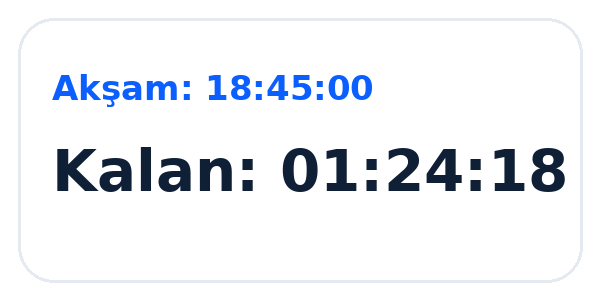
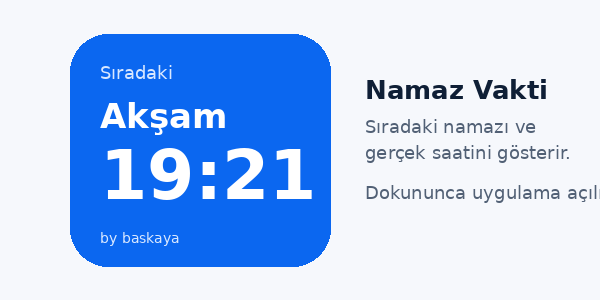
widget update

diff --git a/plugins/withMinuteWidgetUpdates.js b/plugins/withMinuteWidgetUpdates.js
@@ -1,199 +1,3 @@
-const { withAndroidManifest, withDangerousMod } = require('expo/config-plugins');
-const fs = require('fs');
-const path = require('path');
-
-module.exports = function withMinuteWidgetUpdates(config) {
-  const appPackage = config.android && config.android.package;
-  if (!appPackage) {
-    throw new Error('android.package is required for minute widget updates');
-  }
-
-  config = withAndroidManifest(config, (mod) => {
-    const manifest = mod.modResults.manifest;
-    manifest['uses-permission'] = manifest['uses-permission'] || [];
-
-    const ensurePermission = (name) => {
-      const exists = manifest['uses-permission'].some(
-        (item) => item.$ && item.$['android:name'] === name
-      );
-      if (!exists) {
-        manifest['uses-permission'].push({ $: { 'android:name': name } });
-      }
-    };
-
-    ensurePermission('android.permission.RECEIVE_BOOT_COMPLETED');
-    ensurePermission('android.permission.SCHEDULE_EXACT_ALARM');
-
-    const application = manifest.application && manifest.application[0];
-    if (!application) return mod;
-    application.receiver = application.receiver || [];
-
-    const addReceiver = (receiver) => {
-      const name = receiver.$['android:name'];
-      const exists = application.receiver.some(
-        (item) => item.$ && item.$['android:name'] === name
-      );
-      if (!exists) application.receiver.push(receiver);
-    };
-
-    // Receives our explicit one-minute AlarmManager broadcasts.
-    addReceiver({
-      $: {
-        'android:name': '.widget.PrayerWidgetMinuteReceiver',
-        'android:enabled': 'true',
-        'android:exported': 'false',
-      },
-    });
-
-    // Re-arms the minute timer after reboot or an APK update.
-    addReceiver({
-      $: {
-        'android:name': '.widget.PrayerWidgetBootReceiver',
-        'android:enabled': 'true',
-        'android:exported': 'false',
-      },
-      'intent-filter': [
-        {
-          action: [
-            { $: { 'android:name': 'android.intent.action.BOOT_COMPLETED' } },
-            { $: { 'android:name': 'android.intent.action.MY_PACKAGE_REPLACED' } },
-          ],
-        },
-      ],
-    });
-
-    return mod;
-  });
-
-  config = withDangerousMod(config, [
-    'android',
-    async (mod) => {
-      const androidRoot = mod.modRequest.platformProjectRoot;
-      const javaDir = path.join(
-        androidRoot,
-        'app',
-        'src',
-        'main',
-        'java',
-        ...appPackage.split('.'),
-        'widget'
-      );
-      fs.mkdirSync(javaDir, { recursive: true });
-
-      const minuteReceiverJava = `package ${appPackage}.widget;
-
-import android.app.AlarmManager;
-import android.app.PendingIntent;
-import android.appwidget.AppWidgetManager;
-import android.content.BroadcastReceiver;
-import android.content.ComponentName;
-import android.content.Context;
-import android.content.Intent;
-import android.os.Build;
-
-public class PrayerWidgetMinuteReceiver extends BroadcastReceiver {
-    private static final int REQUEST_CODE = 9217;
-
-    @Override
-    public void onReceive(Context context, Intent intent) {
-        updateWidget(context);
-        scheduleNextMinute(context);
-    }
-
-    public static void updateWidget(Context context) {
-        AppWidgetManager manager = AppWidgetManager.getInstance(context);
-        ComponentName component = new ComponentName(context, PrayerTimesWidget.class);
-        int[] ids = manager.getAppWidgetIds(component);
-        if (ids == null || ids.length == 0) {
-            cancel(context);
-            return;
-        }
-
-        Intent updateIntent = new Intent(AppWidgetManager.ACTION_APPWIDGET_UPDATE);
-        updateIntent.setComponent(component);
-        updateIntent.putExtra(AppWidgetManager.EXTRA_APPWIDGET_IDS, ids);
-        context.sendBroadcast(updateIntent);
-    }
-
-    public static void scheduleNextMinute(Context context) {
-        AppWidgetManager manager = AppWidgetManager.getInstance(context);
-        ComponentName component = new ComponentName(context, PrayerTimesWidget.class);
-        int[] ids = manager.getAppWidgetIds(component);
-        if (ids == null || ids.length == 0) {
-            cancel(context);
-            return;
-        }
-
-        AlarmManager alarmManager = (AlarmManager) context.getSystemService(Context.ALARM_SERVICE);
-        if (alarmManager == null) return;
-
-        long now = System.currentTimeMillis();
-        long nextMinute = ((now / 60000L) + 1L) * 60000L + 300L;
-        PendingIntent pendingIntent = pendingIntent(context);
-
-        try {
-            if (Build.VERSION.SDK_INT >= Build.VERSION_CODES.S) {
-                if (alarmManager.canScheduleExactAlarms()) {
-                    alarmManager.setExactAndAllowWhileIdle(AlarmManager.RTC_WAKEUP, nextMinute, pendingIntent);
-                } else if (Build.VERSION.SDK_INT >= Build.VERSION_CODES.M) {
-                    alarmManager.setAndAllowWhileIdle(AlarmManager.RTC_WAKEUP, nextMinute, pendingIntent);
-                } else {
-                    alarmManager.set(AlarmManager.RTC_WAKEUP, nextMinute, pendingIntent);
-                }
-            } else if (Build.VERSION.SDK_INT >= Build.VERSION_CODES.M) {
-                alarmManager.setExactAndAllowWhileIdle(AlarmManager.RTC_WAKEUP, nextMinute, pendingIntent);
-            } else {
-                alarmManager.setExact(AlarmManager.RTC_WAKEUP, nextMinute, pendingIntent);
-            }
-        } catch (SecurityException ignored) {
-            if (Build.VERSION.SDK_INT >= Build.VERSION_CODES.M) {
-                alarmManager.setAndAllowWhileIdle(AlarmManager.RTC_WAKEUP, nextMinute, pendingIntent);
-            } else {
-                alarmManager.set(AlarmManager.RTC_WAKEUP, nextMinute, pendingIntent);
-            }
-        }
-    }
-
-    public static void cancel(Context context) {
-        AlarmManager alarmManager = (AlarmManager) context.getSystemService(Context.ALARM_SERVICE);
-        if (alarmManager != null) {
-            alarmManager.cancel(pendingIntent(context));
-        }
-    }
-
-    private static PendingIntent pendingIntent(Context context) {
-        Intent intent = new Intent(context, PrayerWidgetMinuteReceiver.class);
-        int flags = PendingIntent.FLAG_UPDATE_CURRENT;
-        if (Build.VERSION.SDK_INT >= Build.VERSION_CODES.M) {
-            flags |= PendingIntent.FLAG_IMMUTABLE;
-        }
-        return PendingIntent.getBroadcast(context, REQUEST_CODE, intent, flags);
-    }
-}
-`;
-
-      const bootReceiverJava = `package ${appPackage}.widget;
-
-import android.content.BroadcastReceiver;
-import android.content.Context;
-import android.content.Intent;
-
-public class PrayerWidgetBootReceiver extends BroadcastReceiver {
-    @Override
-    public void onReceive(Context context, Intent intent) {
-        PrayerWidgetMinuteReceiver.updateWidget(context);
-        PrayerWidgetMinuteReceiver.scheduleNextMinute(context);
-    }
-}
-`;
-
-      // Important: do NOT overwrite PrayerTimesWidget.java. It is owned/generated
-      // by react-native-android-widget. V7 failed because two plugins wrote this file.
-      fs.writeFileSync(path.join(javaDir, 'PrayerWidgetMinuteReceiver.java'), minuteReceiverJava);
-      fs.writeFileSync(path.join(javaDir, 'PrayerWidgetBootReceiver.java'), bootReceiverJava);
-      return mod;
-    },
-  ]);
-
-  return config;
-};
+// Eski dakika-sayaci denemesi devre disidir.
+// Bu dosya geriye donuk uyumluluk icin tutulur; app.config.ts artik bunu cagirmiyor.
+module.exports = function withMinuteWidgetUpdates(config) { return config; };

diff --git a/src/widgets/PrayerTimesWidget.ios.tsx b/src/widgets/PrayerTimesWidget.ios.tsx
@@ -1,33 +1,34 @@
 import { Text, VStack } from '@expo/ui/swift-ui';
-import { font, foregroundStyle, padding } from '@expo/ui/swift-ui/modifiers';
+import { font, foregroundStyle, padding, background, cornerRadius } from '@expo/ui/swift-ui/modifiers';
 import { createWidget, type WidgetEnvironment } from 'expo-widgets';
 import type { PrayerWidgetPayload } from './widgetTypes';
 
 const PrayerTimesWidget = (props: PrayerWidgetPayload, environment: WidgetEnvironment) => {
   'widget';
-  const blue = '#0B5FFF';
-  const navy = environment.colorScheme === 'dark' ? '#FFFFFF' : '#0F1F36';
-
-  if (environment.widgetFamily === 'accessoryRectangular') {
-    return (
-      <VStack spacing={1}>
-        <Text modifiers={[font({ weight: 'semibold', size: 11 })]}>
-          {props.nextLabel}: {props.nextTime}
-        </Text>
-        <Text modifiers={[font({ weight: 'bold', size: 16 })]}>
-          {props.countdown}
-        </Text>
-      </VStack>
-    );
-  }
+  const white = '#FFFFFF';
+  const soft = '#D9E8FF';
+  const blue = '#0B67F0';
 
   return (
-    <VStack spacing={5} modifiers={[padding({ all: 11 })]}>
-      <Text modifiers={[font({ weight: 'bold', size: 14 }), foregroundStyle(blue)]}>
-        {props.nextLabel}: {props.nextTime}
+    <VStack
+      spacing={1}
+      modifiers={[
+        padding({ all: 12 }),
+        background(blue),
+        cornerRadius(20),
+      ]}
+    >
+      <Text modifiers={[font({ weight: 'semibold', size: 9 }), foregroundStyle(soft)]}>
+        Sıradaki
       </Text>
-      <Text modifiers={[font({ weight: 'bold', size: 25 }), foregroundStyle(navy)]}>
-        {props.countdown}
+      <Text modifiers={[font({ weight: 'bold', size: 17 }), foregroundStyle(white)]}>
+        {props.nextLabel}
+      </Text>
+      <Text modifiers={[font({ weight: 'bold', size: 30 }), foregroundStyle(white)]}>
+        {props.nextTime}
+      </Text>
+      <Text modifiers={[font({ weight: 'regular', size: 7 }), foregroundStyle(soft)]}>
+        by baskaya
       </Text>
     </VStack>
   );

diff --git a/src/widgets/PrayerTimesAndroidWidget.tsx b/src/widgets/PrayerTimesAndroidWidget.tsx
@@ -8,30 +8,48 @@ export function PrayerTimesAndroidWidget({ data }: { data: PrayerWidgetPayload }
       style={{
         height: 'match_parent',
         width: 'match_parent',
-        backgroundColor: '#FFFFFF',
-        borderRadius: 18,
-        paddingHorizontal: 12,
-        paddingVertical: 7,
+        backgroundColor: '#0B67F0',
+        borderRadius: 22,
+        paddingHorizontal: 14,
+        paddingVertical: 10,
         flexDirection: 'column',
         justifyContent: 'center',
       }}
       clickAction="OPEN_APP"
     >
       <TextWidget
-        text={`${data.nextLabel}: ${data.nextTime}`}
+        text="Sıradaki"
         style={{
-          fontSize: 12,
-          fontWeight: '700',
-          color: '#0B5FFF',
+          fontSize: 9,
+          fontWeight: '600',
+          color: '#D9E8FF',
         }}
       />
       <TextWidget
-        text={data.countdown}
+        text={data.nextLabel}
         style={{
-          fontSize: 21,
+          fontSize: 17,
           fontWeight: '800',
-          color: '#0F1F36',
+          color: '#FFFFFF',
           marginTop: 2,
+        }}
+      />
+      <TextWidget
+        text={data.nextTime}
+        style={{
+          fontSize: 31,
+          fontWeight: '900',
+          color: '#FFFFFF',
+          marginTop: 0,
+        }}
+      />
+      <TextWidget
+        text="by baskaya"
+        style={{
+          fontSize: 7,
+          fontWeight: '500',
+          color: '#D9E8FF',
+          marginTop: 3,
         }}
       />
     </FlexWidget>

diff --git a/app.config.ts b/app.config.ts
@@ -7,7 +7,7 @@ const androidWidgetConfig = {
       minHeight: '55dp',
       targetCellWidth: 2,
       targetCellHeight: 1,
-      description: 'Sıradaki namaz saatini ve kalan süreyi kompakt biçimde gösterir.',
+      description: 'Sıradaki namazı ve gerçek vakit saatini kompakt biçimde gösterir.',
       previewImage: './assets/widget-preview/prayer-times.png',
       updatePeriodMillis: 1800000
     }
@@ -42,7 +42,6 @@ module.exports = ({ config }) => ({
       'ACCESS_FINE_LOCATION',
       'POST_NOTIFICATIONS',
       'SCHEDULE_EXACT_ALARM',
-      'RECEIVE_BOOT_COMPLETED'
     ]
   },
   plugins: [
@@ -69,7 +68,7 @@ module.exports = ({ config }) => ({
           {
             name: 'PrayerTimesWidget',
             displayName: 'Namaz Vakti',
-            description: 'Sıradaki namaz saatini ve kalan süreyi kompakt biçimde gösterir.',
+            description: 'Sıradaki namazı ve gerçek vakit saatini kompakt biçimde gösterir.',
             supportedFamilies: [
               'systemSmall',
               'accessoryRectangular'
@@ -78,7 +77,6 @@ module.exports = ({ config }) => ({
         ]
       }
     ],
-    ['react-native-android-widget', androidWidgetConfig],
-    './plugins/withMinuteWidgetUpdates'
+    ['react-native-android-widget', androidWidgetConfig]
   ]
 });

diff --git a/README.md b/README.md
@@ -1,3 +1,7 @@
+# V10 Widget
+
+Widget artık güvenilirlik için yalnızca sıradaki namazı ve vaktin saatini gösterir; geri sayım kaldırılmıştır.
+
 # Vakit — Türkiye Namaz Vakitleri
 
 **Vakit**, Android ve iOS için tek Expo / React Native kod tabanından çalışan modern bir namaz vakitleri uygulamasıdır.
